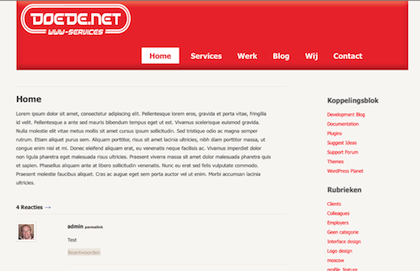
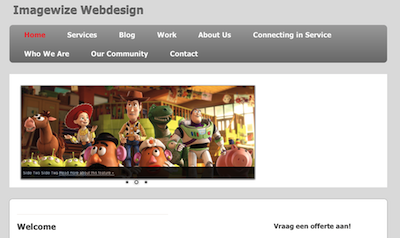
modified:   header.php 	modified:   screenshot.png 	modified:   stylesheets/master.css

diff --git a/stylesheets/master.css b/stylesheets/master.css
@@ -45,6 +45,15 @@ a:hover { color: #993333; }
 	text-align: left;
 }
 
+.header-top-with-image {
+  width: 1000px;
+	height:200px;
+	padding:0;
+	margin: 0 0 10px 0;
+}
+
+.header-top #title {height}
+
 .contentwrapper{
 	width: 1000px;
 	margin: 0 auto;

diff --git a/header.php b/header.php
@@ -52,16 +52,17 @@
 	<div class="skip-content"><a href="#content">Skip to content</a></div>
 	<div id="header" class="clear">
 		
-		<div class="header-top">
-			
-			<?php
-      		// Check to see if the header image has been removed
-      		$header_image = get_header_image();
-      		if (empty( $header_image )): ?>
-      <div id="title"><h1><a href="<?php bloginfo( 'url'); ?>"><?php bloginfo( 'description'); ?></a></h1></div>
-      	<?php else: ?>		
-      <div id="title"><h1><img src="<?php header_image(); ?>" height="<?php echo get_custom_header()->height; ?>" width="<?php echo get_custom_header()->width; ?>" alt="" /></h1></div>
-      <?php endif;?>
+		
+			      		<?php
+                		// Check to see if the header image has been removed
+                		$header_image = get_header_image();
+                		if (empty( $header_image )): ?>
+                		<div class="header-top">
+                <div id="title"><h1><a href="<?php bloginfo( 'url'); ?>"><?php bloginfo( 'description'); ?></a></h1></div>
+                	<?php else: ?>
+                	<div class="header-top-with-image">	
+                <div id="title"><h1><img src="<?php header_image(); ?>" alt="" /></h1></div>
+                <?php endif;?>
             	</div>
 			<div id="menuwrapper">
 			<?php if ( has_nav_menu( 'primary-menu' ) ) { ?>
